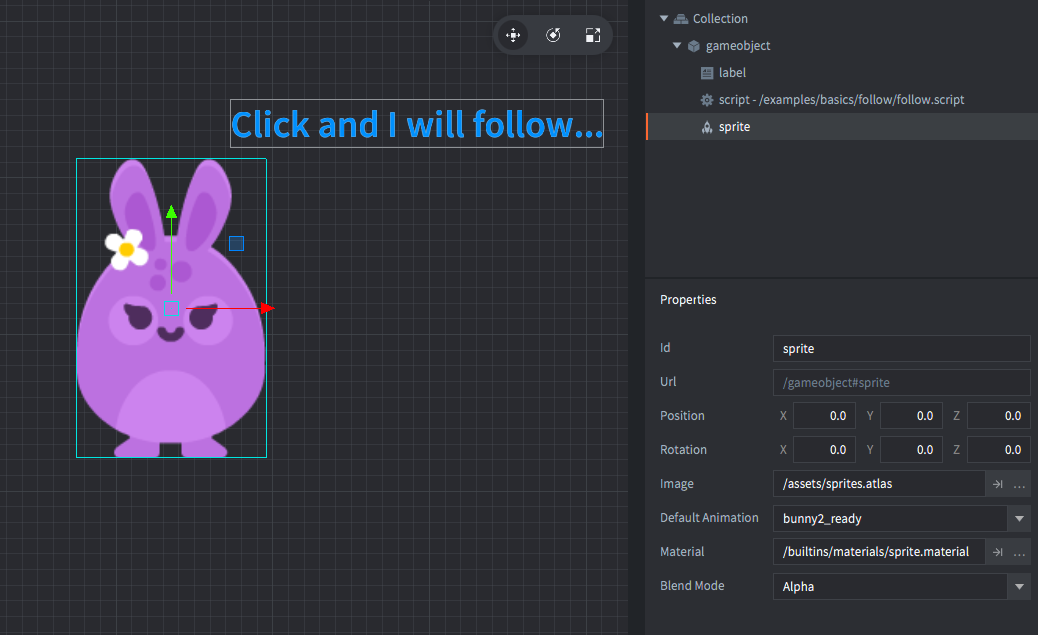
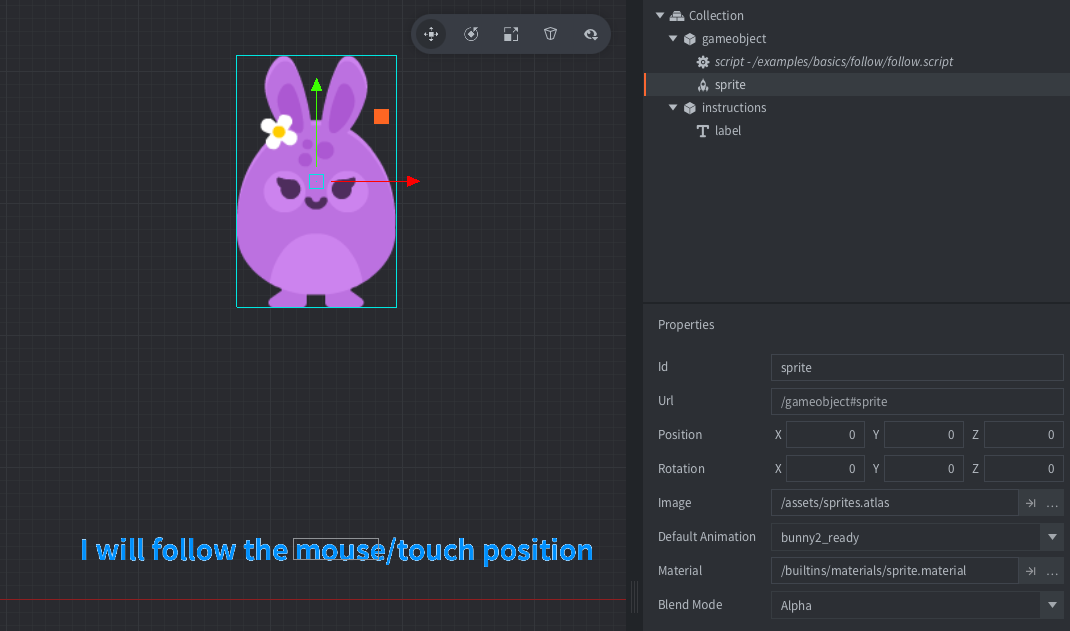
Updated follow and added move_to example

diff --git a/examples/_main/loader.go b/examples/_main/loader.go
@@ -838,3 +838,21 @@ embedded_components {
     w: 1.0
   }
 }
+embedded_components {
+  id: "basics/move_to"
+  type: "collectionproxy"
+  data: "collection: \"/examples/basics/move_to/move_to.collection\"\n"
+  "exclude: false\n"
+  ""
+  position {
+    x: 0.0
+    y: 0.0
+    z: 0.0
+  }
+  rotation {
+    x: 0.0
+    y: 0.0
+    z: 0.0
+    w: 1.0
+  }
+}

diff --git a/examples/basics/follow/follow.md b/examples/basics/follow/follow.md
@@ -1,6 +1,6 @@
 ---
 title: Follow input
-brief: This example shows how to make a game object move to the position the user clicks.
+brief: This example shows how to make a game object continuously follow the mouse.
 scripts: follow.script
 ---
 

diff --git a/examples/basics/move_to/move_to.md b/examples/basics/move_to/move_to.md
@@ -1,0 +1,7 @@
+---
+title: Move to target
+brief: This example shows how to make a game object move to the position the user clicks.
+scripts: move_to.script
+---
+
+![move_to](move_to.png)
